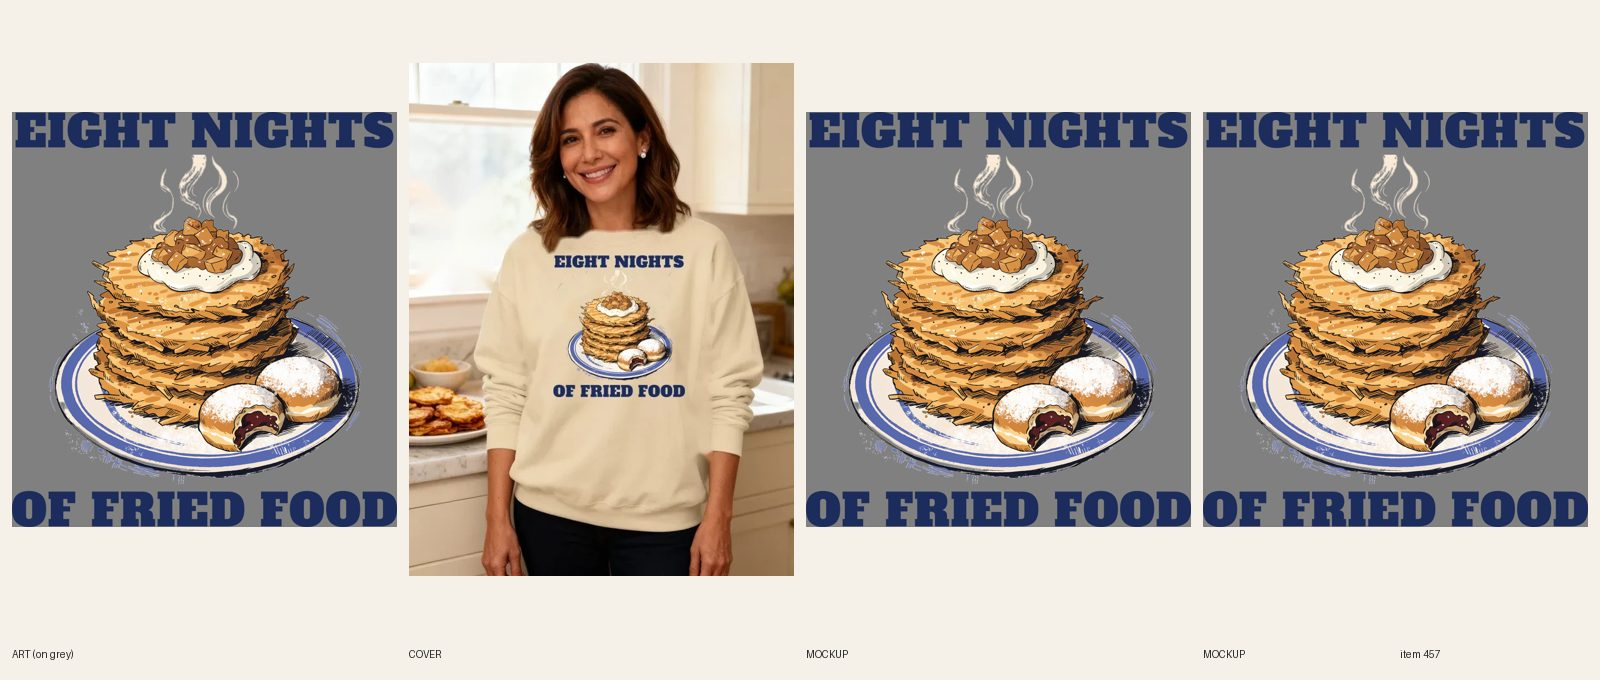
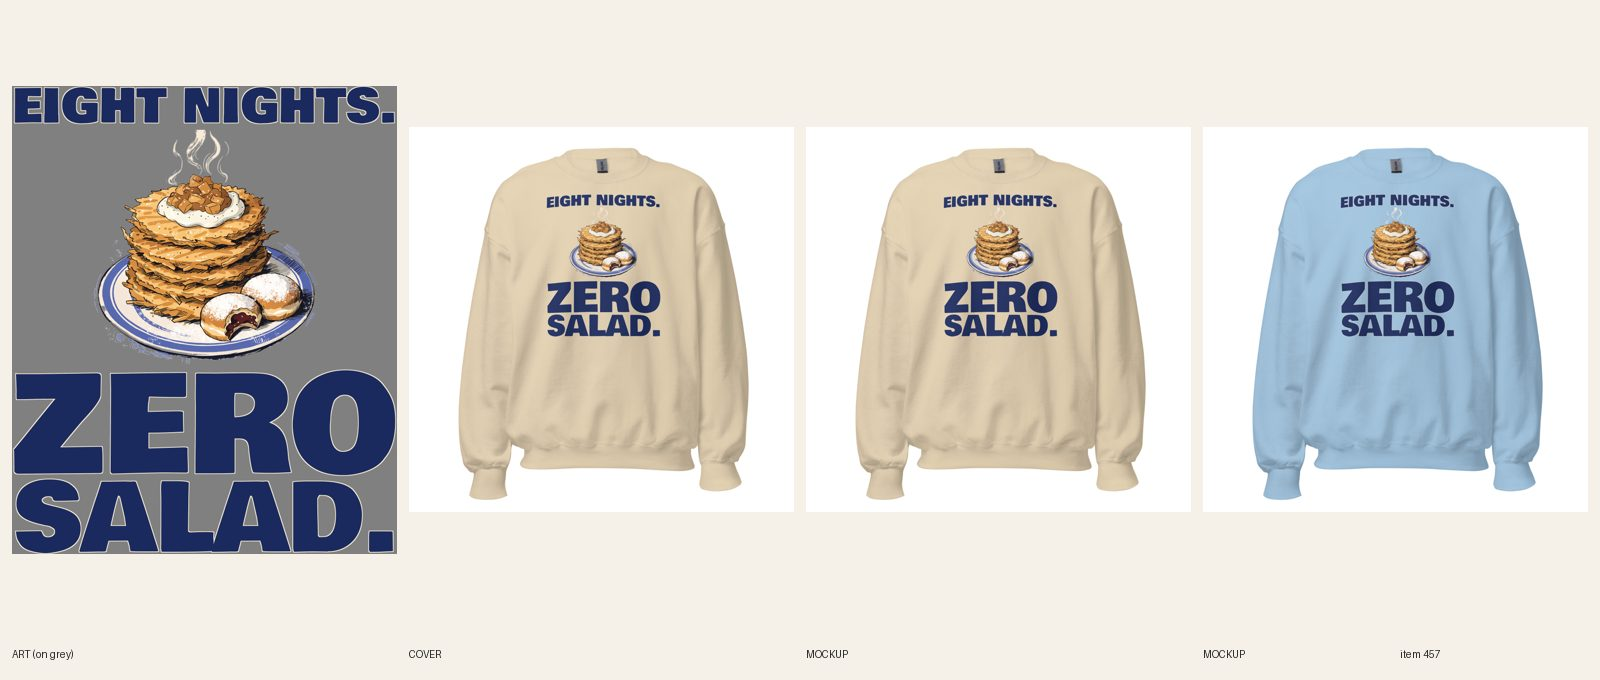
[C] review 457 458 Eight Nights. Zero Salad. (Hanukkah crew + tee redo)
Claude-Session: https://claude.ai/code/session_01SCArfZ8derTSnP9ReWDDat

diff --git a/designs/c457/copy.py b/designs/c457/copy.py
@@ -1,0 +1,54 @@
+import re,json
+N='Eight Nights. Zero Salad.'
+crew_faq=[
+("How does the Eight Nights. Zero Salad. crewneck fit?","The Eight Nights. Zero Salad. crewneck from Graphic Tees Co. comes in sizes S through 3XL. It is a classic unisex cut, so order your usual size or go up one for a roomier fit. Compare the size chart with a crewneck sweatshirt you own, and remember the first size exchange is free."),
+("How warm is this Hanukkah sweater?","The Eight Nights. Zero Salad. crewneck is a midweight 8 oz/yd² fleece crewneck with no hood and ribbed cuffs and waistband. The fabric is 50% cotton, 50% polyester fleece, warm enough for a cool evening by the stove and comfortable indoors. Graphic Tees Co. prints each one to order."),
+("How do I wash the Eight Nights. Zero Salad. crewneck?","Turn the Eight Nights. Zero Salad. crewneck inside out and wash it in cold water with similar colors, then tumble dry on low or hang it to dry. Skip bleach and fabric softener, and never iron over the print. Cold washing keeps the navy letters and the latkes looking sharp longer."),
+("What if the size is wrong on my Eight Nights. Zero Salad. crewneck?","Graphic Tees Co. offers one free size exchange within 30 days of delivery on the Eight Nights. Zero Salad. crewneck. We print the new size and you do not mail anything back. If a print arrives misprinted or damaged, we reprint it or refund it within 30 days of delivery."),
+("Will the Eight Nights. Zero Salad. crewneck arrive before Hanukkah?","Hanukkah 2026 begins at sundown on Friday, December 4. Graphic Tees Co. prints each Eight Nights. Zero Salad. crewneck to order, so order by about November 20 for it to arrive before the first night. Orders over $45 ship free, and one free size exchange within 30 days covers a wrong guess."),
+]
+tee_faq=[
+("How does the Eight Nights. Zero Salad. tee fit?","This relaxed women's tee from Graphic Tees Co. runs S through 3XL in a lightweight 4.2 oz/yd² cotton. Order your usual size for an easy fit or go up one for an oversized look. We cover one free size exchange within 30 days if the size is off."),
+("Which color should I pick?","White and Natural show the navy letters and the golden latkes most clearly. Pink and Heather Blue Lagoon give you a bolder, more playful backdrop, Athletic Heather is a quieter pick, and Navy carries cream letters instead, so ZERO SALAD stays easy to read on all six colors of this Hanukkah shirt."),
+("Will it arrive before Hanukkah?","Hanukkah 2026 begins at sundown on Friday, December 4. Graphic Tees Co. prints each tee to order, so order by about November 20 for it to arrive before the first night. Orders over $45 ship free, and one free size exchange within 30 days covers a wrong guess."),
+("How do I wash this tee?","Turn it inside out, wash it cold with similar colors and tumble dry on low or hang it to dry. Skip bleach and fabric softener, and never iron over the print. Cold washing keeps the letters and the latkes looking sharp through every night of Hanukkah."),
+("What if the size is wrong?","Graphic Tees Co. offers one free size exchange within 30 days of delivery on this tee. We print the new size and you do not mail anything back. If a print arrives misprinted or damaged, we reprint it or refund it within 30 days of delivery."),
+]
+for n,f in (('crew',crew_faq),('tee',tee_faq)):
+    print(n,[len(a.split()) for q,a in f])
+def faq(f): return '\n'.join(f'<p><strong>{q}</strong><br>{a}</p>' for q,a in f)
+story_crew='''<h3>The Story</h3>
+<p>Eight nights, zero salad: this Hanukkah sweater says what every latke-frying kitchen is thinking, over a golden stack of latkes with sour cream and applesauce and two powdered jelly doughnuts.</p>
+<p>EIGHT NIGHTS. sits above the art and ZERO SALAD. below it in huge navy slab capitals, ZERO on one line and SALAD. on the next. In between is a vintage diner-menu illustration of a stack of crisp potato latkes with sour cream and applesauce, a little steam rising, and two powdered sufganiyot on a blue-rimmed plate, one with a bite taken out. The palette is warm gold, cream, cornflower blue and navy. Wear it to the latke fry-off, the family candle lighting or give it to the one who always hosts. Original art, made for Graphic Tees Co. and printed the day you order it.</p>
+<h3>Details &amp; Fit</h3>
+<ul>
+<li>Classic fit crewneck sweatshirt</li>
+<li>50% cotton, 50% polyester, pre-shrunk</li>
+<li>Fabric weight: 8 oz/yd² fleece</li>
+<li>1x1 athletic rib knit collar with spandex</li>
+<li>Air-jet spun yarn for a soft feel</li>
+<li>Double-needle stitched collar, shoulders, armholes, cuffs and hem</li>
+<li>Sizes S–3XL</li>
+<li>2 colors: Sand and Light Blue</li>
+</ul>
+<h3>Questions</h3>
+'''
+story_tee='''<h3>The Story</h3>
+<p>Eight nights, zero salad: this Hanukkah shirt for women says what every latke-frying kitchen is thinking, over a golden stack of latkes with sour cream and applesauce and two powdered jelly doughnuts.</p>
+<p>EIGHT NIGHTS. sits above the art and ZERO SALAD. below it in huge slab capitals, ZERO on one line and SALAD. on the next, navy on the light colors and cream on Navy. In between is a vintage diner-menu illustration of a stack of crisp potato latkes with sour cream and applesauce, a little steam rising, and two powdered sufganiyot on a blue-rimmed plate, one with a bite taken out. The palette is warm gold, cream, cornflower blue and navy.</p>
+<p>Wear it to the latke fry-off, the Friday-night dinner or give it to the one who always hosts. Original art, made for Graphic Tees Co. and printed the day you order it.</p>
+<h3>Details &amp; Fit</h3>
+<ul>
+<li>Relaxed fit, crew neck</li>
+<li>100% combed, ring-spun cotton (heather colors contain polyester)</li>
+<li>Fabric weight: 4.2 oz/yd² — lightweight</li>
+<li>Pre-shrunk, side-seamed construction</li>
+<li>Sizes S–3XL</li>
+<li>Colors: White, Natural, Pink, Heather Blue Lagoon, Athletic Heather, Navy</li>
+<li>Blank product sourced from Nicaragua, Honduras, or the US</li>
+</ul>
+<h3>Questions</h3>
+'''
+json.dump({'crew':story_crew+faq(crew_faq),'tee':story_tee+faq(tee_faq)},open('designs/c457/copy.json','w'),ensure_ascii=False)
+for k in ('crew','tee'):
+    h=json.load(open('designs/c457/copy.json'))[k]; print(k,[w for w in ('frame','badge','shape behind','border') if w in h])

diff --git a/designs/c457/make.py b/designs/c457/make.py
@@ -1,0 +1,13 @@
+import sys; sys.path.insert(0,'.')
+from designs.lib import *
+im=Image.open('docs/print-files/457-eight-nights-of-fried-food.png').convert('RGBA')
+a=im.crop((0,360,im.width,3330)); a=a.crop(a.getbbox())
+W=3450
+NAVY=(27,42,94,255)
+for tag,fill,key in (('navy',NAVY,CREAM),('cream',CREAM,NAVY)):
+    top=[line('EIGHT NIGHTS.','bowlby',1.0,W,fill,key,kw=15)]
+    bot=[line('ZERO','bowlby',1.0,W,fill,key,kw=15),line('SALAD.','bowlby',1.0,W,fill,key,kw=15)]
+    aw=int(W*0.58); art=a.resize((aw,int(a.height*aw/a.width)))
+    o=lockup(art,W,top,bot,'457-zero-salad-'+tag,{'grey':(128,128,128,255),'sand':(226,212,185,255),'lblue':(168,196,224,255),'navy':(26,34,62,255)},g=50)
+    th=top[0].height+sum(b.height for b in bot)
+    print(tag,'head',top[0].width,'punch',[b.width for b in bot],'type',th,'of',o.height,th/o.height,'subject',art.width,art.width/W,o.size)

diff --git a/designs/c457/chk.py b/designs/c457/chk.py
@@ -1,0 +1,8 @@
+import json,os,sys,urllib.request,collections
+H={'Authorization':'Bearer '+os.environ['PRINTFUL_TOKEN'],'User-Agent':'gtc'}
+ok=True
+for p,exp in (('482511422',{1090931878}),('482648619',{1090932110,1090932129})):
+    r=json.load(urllib.request.urlopen(urllib.request.Request('https://api.printful.com/sync/products/'+p,headers=H)))['result']['sync_variants']
+    c=collections.Counter(next((f['id'] for f in v['files'] if f['type'] in('default','front')),0) for v in r)
+    print(p,dict(c)); ok&=set(c)<=exp
+sys.exit(0 if ok else 1)

diff --git a/docs/pipeline/457-hanukkah-crew-latke-queen.md b/docs/pipeline/457-hanukkah-crew-latke-queen.md
@@ -1,4 +1,4 @@
-status: REDO
+status: REVIEW
 lane: C
 type: new
 id: 457
@@ -40,3 +40,4 @@ kd: 28
 - 2026-10-18 06:44 UTC builder [C]: REDO cover only. R5.3.9: the 7-candle window menorah is painted out (inpainted from the window and sill, nothing else changed); the print, mockups and copy were already approved. No fal spend. REVIEW.
 - 2026-10-18 07:22 UTC director: approved from docs/review/457.jpg (stays ACTIVE + published). Sheet's mockup panels showed the art, so the Shopify Sand and Light Blue mockups were checked directly: EIGHT NIGHTS / OF FRIED FOOD read on both (R3.12 line). Back-view alt still said 'Fried Food Is Tradition': fixed. Cover alt in covers.ts no longer mentions a menorah. audit --handle PASS (0 warn). LIVE.
 - 2026-10-18 17:22 UTC director: QUALITY RESET grade C (new line + type), REDO. The product stays ACTIVE (same handle, URL, title keyword). 1. Line (R3.12, quality-reset 'Lines'): "EIGHT NIGHTS / OF FRIED FOOD": Just describes Hanukkah food and the picture; no joke. Mockups show grey panel. Write 5 candidates, keep the one a stranger laughs at in 3 seconds without backstory; kill lines that only describe the picture; if none of the 5 is funny, PARK it. 2. Quality reset type bar (docs/backlog/quality-reset.md, 'The new bar'): headline at least 90% of the art width, heavy, colors pulled from the art; second line at least 45% of the headline's height, never a thin script on a dark or mid garment; use the lettering as a shape (arch, stacked lockup, words breaking into the art), not a plain bar above and a script line below; no font used on more than 1 in 6 of the last 30 designs. 3. Keep the art if it carries the new line, else one new illustration (R4/R5). New print means a new cover per R6.10, copy line one rewritten for the new joke (R8.3), and a fresh review sheet (R7.7). While quality-reset.md says PAUSED, only lane A builds, and only the samples step 2 names.
+- 2026-10-21 05:55 UTC builder [C]: REDO line + type, REVIEW. 5 candidates (Eight Nights. Zero Salad. / Oil Be Fine. / Choose Violence: Sour Cream / Calories Don't Count In The Dark / Latke Hater): kept EIGHT NIGHTS. / ZERO SALAD. (web search of the quoted line with hanukkah shirt: no listing carries it). Same latke art, new lockup: headline above, punch below in Bowlby One (not used on the last 30 here), navy fill on Sand and Light Blue, FW 1650 TOP 75, print 3450x4196. headline 3413 / punch block 3432 px (ZERO 3432 = 100.6%, SALAD. 3393 = 99.4% of the headline); type 1973 of 4196 px = 47%; subject 2000 of 3450 px = 58%. Light file: Sand and Light Blue on navy-fill file 1090931878 (no cream fill). Phone-size read: every word reads on both mockups. 12/12 on 1090931878. Title now 'Women's Hanukkah – Eight Nights. Zero Salad. Crewneck Sweatshirt' (handle unchanged), SEO title/meta, line one and 5 FAQs (49-53 words) rewritten; mockups replaced in place, alts updated. Cover: handle already in retired-covers.json (flat product shot until fal is topped up). Audit PASS (0 warn). fal $0.

diff --git a/docs/pipeline/458-hanukkah-tee-latke-queen.md b/docs/pipeline/458-hanukkah-tee-latke-queen.md
@@ -1,4 +1,4 @@
-status: REDO
+status: REVIEW
 lane: C
 type: twin
 id: 458
@@ -34,3 +34,4 @@ kd: 36
 - 2026-10-18 06:44 UTC builder [C]: REDO cover only. R5.3.9 + R6.9 clean-erase: one new cover attempt with the White mockup as --design (fal $0.06): clean white tee with natural folds, no old-print blotches, print faithful, both lines read. The model added a 7-candle menorah and small dreidels in the background, so I inpainted the whole left counter area clean: no menorah, dreidel, candle or Hebrew anywhere; latkes and applesauce on the counter stay. Hair top is tight to the frame edge like the previous cover. REVIEW.
 - 2026-10-18 07:22 UTC director: approved from docs/review/458.jpg (stays ACTIVE + published); cream-lettered Navy file reads; cover has no menorah or dreidels. Back-view alt renamed to Eight Nights of Fried Food; cover alt no longer claims a lit menorah. audit --handle PASS (0 warn). LIVE.
 - 2026-10-18 17:22 UTC director: QUALITY RESET grade C (new line + type), REDO. The product stays ACTIVE (same handle, URL, title keyword). 1. Line (R3.12, quality-reset 'Lines'): "EIGHT NIGHTS / OF FRIED FOOD": Just describes Hanukkah food and the picture; no joke. Write 5 candidates, keep the one a stranger laughs at in 3 seconds without backstory; kill lines that only describe the picture; if none of the 5 is funny, PARK it. 2. Quality reset type bar (docs/backlog/quality-reset.md, 'The new bar'): headline at least 90% of the art width, heavy, colors pulled from the art; second line at least 45% of the headline's height, never a thin script on a dark or mid garment; use the lettering as a shape (arch, stacked lockup, words breaking into the art), not a plain bar above and a script line below; no font used on more than 1 in 6 of the last 30 designs. 3. Keep the art if it carries the new line, else one new illustration (R4/R5). New print means a new cover per R6.10, copy line one rewritten for the new joke (R8.3), and a fresh review sheet (R7.7). While quality-reset.md says PAUSED, only lane A builds, and only the samples step 2 names.
+- 2026-10-21 06:00 UTC builder [C]: REDO line + type, REVIEW. Twin of #457's new line EIGHT NIGHTS. / ZERO SALAD. (see #457's log for the 5 candidates and the search). Same latke art and lockup, print 3450x4196: headline 3413 / punch block 3432 px (SALAD. 99.4%); type 1973 of 4196 = 47%; subject 2000 of 3450 = 58%. FW 1400 TOP 75 (the 6400 print area is 1500x1800: FW 1800 clipped SALAD. on the first mockup, so reset to 1400; it logs FW 1400, tee not a hoodie). Light file: White, Natural, Pink, Heather Blue Lagoon, Athletic Heather on navy-fill file 1090934853; Navy on cream-fill file 1090934896. 30+6=36/36 verified on those ids. Phone-size read: ZERO SALAD reads on Heather Blue Lagoon and Navy mockups. Title now 'Women's Hanukkah – Eight Nights. Zero Salad. Graphic Tee', SEO, line one and 5 FAQs rewritten, mockups replaced in place with new alts. Cover: already in retired-covers.json (flat shot). Audit PASS. fal $0.

diff --git a/docs/intake-log.md b/docs/intake-log.md
@@ -6,6 +6,8 @@ RUNNING helper since 2026-10-21 05:43 UTC
 RUNNING lane C since 2026-10-21 05:25 UTC
 2026-10-21 05:44 UTC — [B] Builder run (REDO): #694 Christmas Tree It Looked Smaller at the Farm Mug redo: AT THE FARM 1014 px vs headline 1006 px (101%), new wrap file 1090935994, Shopify media replaced, REVIEW. fal $0.
 2026-10-21 05:38 UTC — [B] Builder run: #834 Men's Papa Has a Spot. Won't Say Where. Camo Hoodie built to REVIEW (DRAFT 15371567563056, Forest + Duck + Deadwood Tree Camo 18/18 on 1090933259, FW 1500, new art 1 call, type 26% flagged, flat cover, audit PASS). fal $0.04.
+2026-10-21 06:00 UTC — [C] Builder run: REDO #458 Hanukkah tee twin now EIGHT NIGHTS. / ZERO SALAD., 36/36 relinked (FW 1400), to REVIEW. fal $0.
+2026-10-21 05:55 UTC — [C] Builder run: REDO #457 Hanukkah crewneck now EIGHT NIGHTS. / ZERO SALAD. (same latke art, new lockup), 12/12 on 1090931878, to REVIEW. fal $0.
 RUNNING director since 2026-10-21 05:13 UTC
 2026-10-21 05:28 UTC — [B] Builder run: #833 Men's Catfish Caught Something Ugly. Kept It Anyway. Camo Hoodie built to REVIEW (DRAFT 15371565891888, Forest + Black + Deadwood Tree Camo 18/18 on 1090930894, FW 1500, new art 1 call, flat cover, audit PASS). fal $0.04.
 2026-10-21 05:21 UTC — [B] Builder run: #832 Men's Farmer No Days Off. The Cows Said So. Camo Hoodie built to REVIEW (DRAFT 15371563106608, Forest + Duck + Deadwood Tree Camo 18/18 on 1090928521, FW 1600, dark-ink file on cream halo, flat cover, audit PASS). fal $0.
